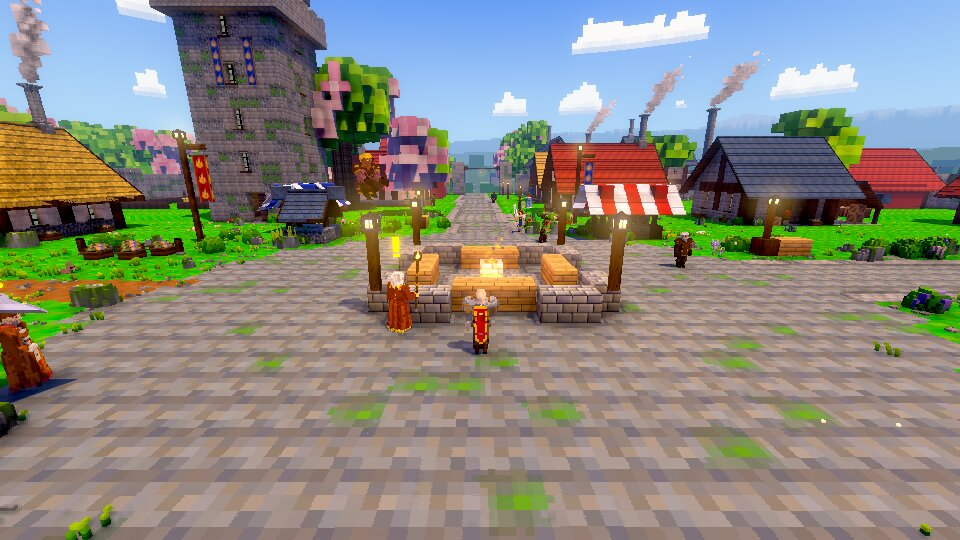
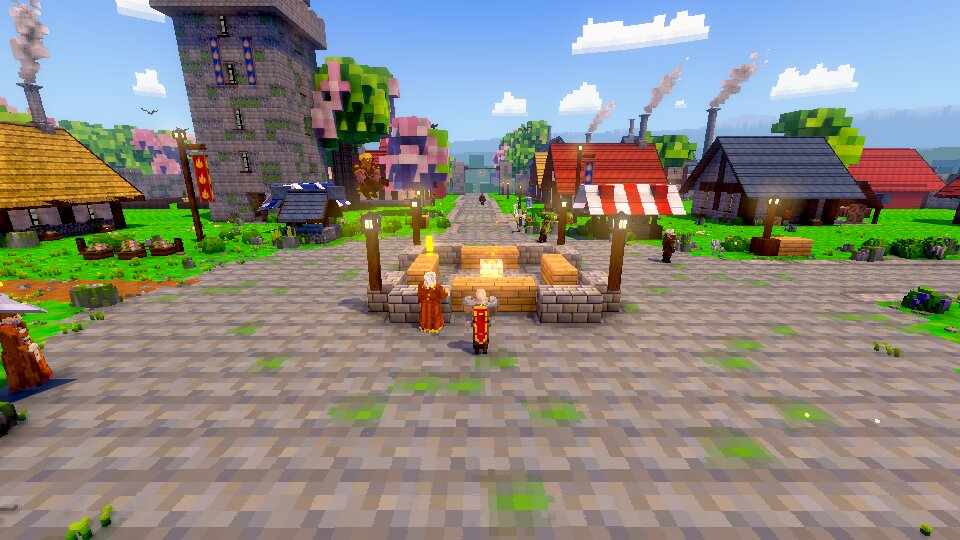
compare.py; the wake view on the hand-in build; write-up in progress

diff --git a/tools/playtest/compare.py b/tools/playtest/compare.py
@@ -1,0 +1,57 @@
+"""Before and after, side by side, per player type or per class, from two
+sets of `dyno bots` reports (docs/playtest/first-30-minutes-round2.md).
+
+    python3 tools/playtest/compare.py brain|class BEFORE.json[,BEFORE.json...] AFTER.json[,AFTER.json...]
+
+Medians over the bots of a set; deaths an hour are pooled over the time
+played; time shares are of the time played.
+"""
+import os, statistics, sys
+
+sys.path.insert(0, os.path.dirname(os.path.abspath(__file__)))
+import beats  # noqa: E402
+import round2  # noqa: E402
+
+
+def load(paths):
+    return [t for p in paths.split(",") for t in round2.read(p)["telemetry"]]
+
+
+def stats(g):
+    r = beats.row(g)
+    secs = sum(round2.active_secs(t) for t in g)
+    deaths = sum(len(t["deaths"]) for t in g)
+    kills = sum(t["kills"] for t in g)
+    lost = sum(t["kills_no_credit"] - t.get("kills_no_credit_alone", 0) for t in g)
+    longest = [max(l for _, l, _ in round2.gaps_of(t)) for t in g]
+    share = lambda *ks: f"{100 * sum(t['time'].get(k, 0) for t in g for k in ks) / secs:.0f}%"
+    five = sum(1 for t in g if any(l >= 5 for _, l, _ in t["xp_curve"]))
+    return [
+        round2.mmss(r["level 2"]), round2.mmss(r["level 3"]), round2.mmss(r["level 4"]),
+        f"{r['level at end']:g}", f"{five} of {len(g)}", f"{r['quests']:g}",
+        f"{statistics.median([t['xp_total'] for t in g]):.0f}",
+        round2.mmss(round2.med(longest)), round2.mmss(max(longest)),
+        share("travel"), share("fight"), share("wait_spawn"),
+        f"{deaths} in {secs / 3600:.2f} h", f"{deaths / (secs / 3600):.1f}",
+        f"{100 * lost / max(1, kills + lost):.0f}%",
+    ]
+
+
+COLS = ["level 2", "level 3", "level 4", "level at end", "reached 5", "quests done", "XP earned", "longest gap (median)",
+        "longest gap (worst)", "travel", "fighting", "waiting for spawns", "deaths", "deaths an hour", "kills lost to a tag"]
+
+
+def main():
+    key, before, after = sys.argv[1], load(sys.argv[2]), load(sys.argv[3])
+    names = [n for n in round2.BRAINS if any(t["brain"] == n for t in before)] if key == "brain" else sorted({t["class"] for t in before})
+    print(f"| {key} | | bots | " + " | ".join(COLS) + " |")
+    print("|---|---|---|" + "---|" * len(COLS))
+    for n in names + ["all"]:
+        for label, tels in (("before", before), ("after", after)):
+            g = [t for t in tels if n == "all" or t[key] == n]
+            if g:
+                print(f"| {n if label == 'before' else ''} | {label} | {len(g)} | " + " | ".join(stats(g)) + " |")
+
+
+if __name__ == "__main__":
+    main()
